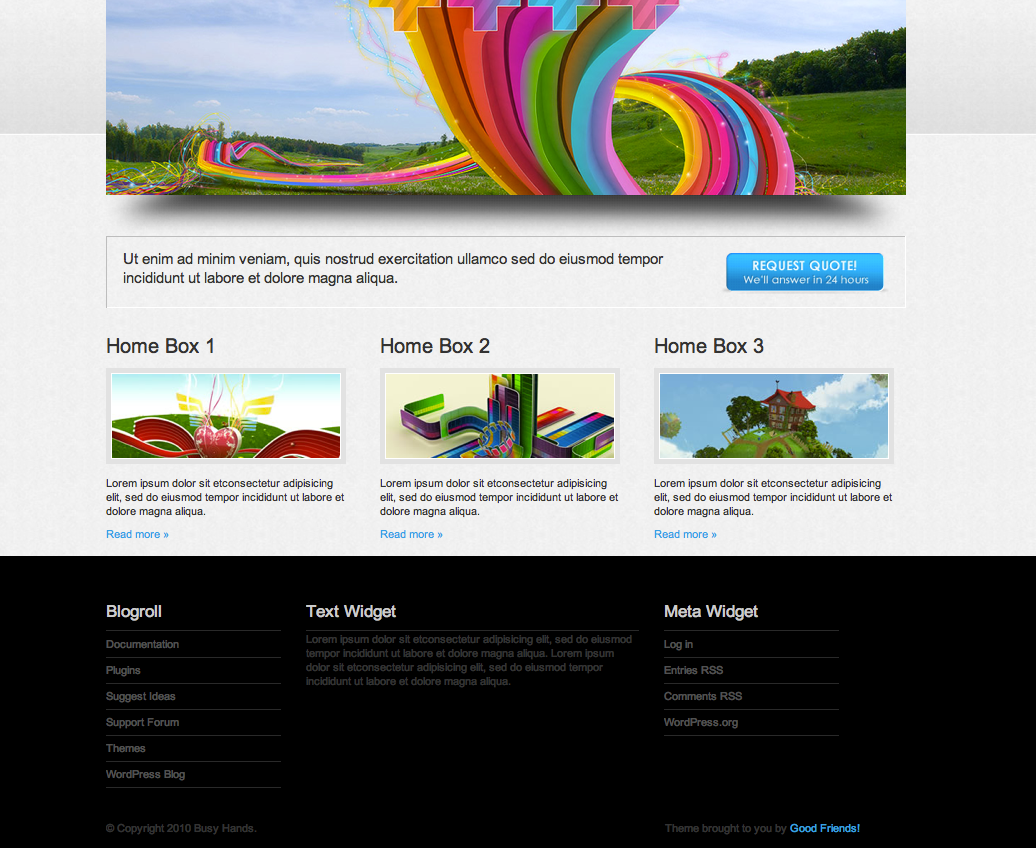
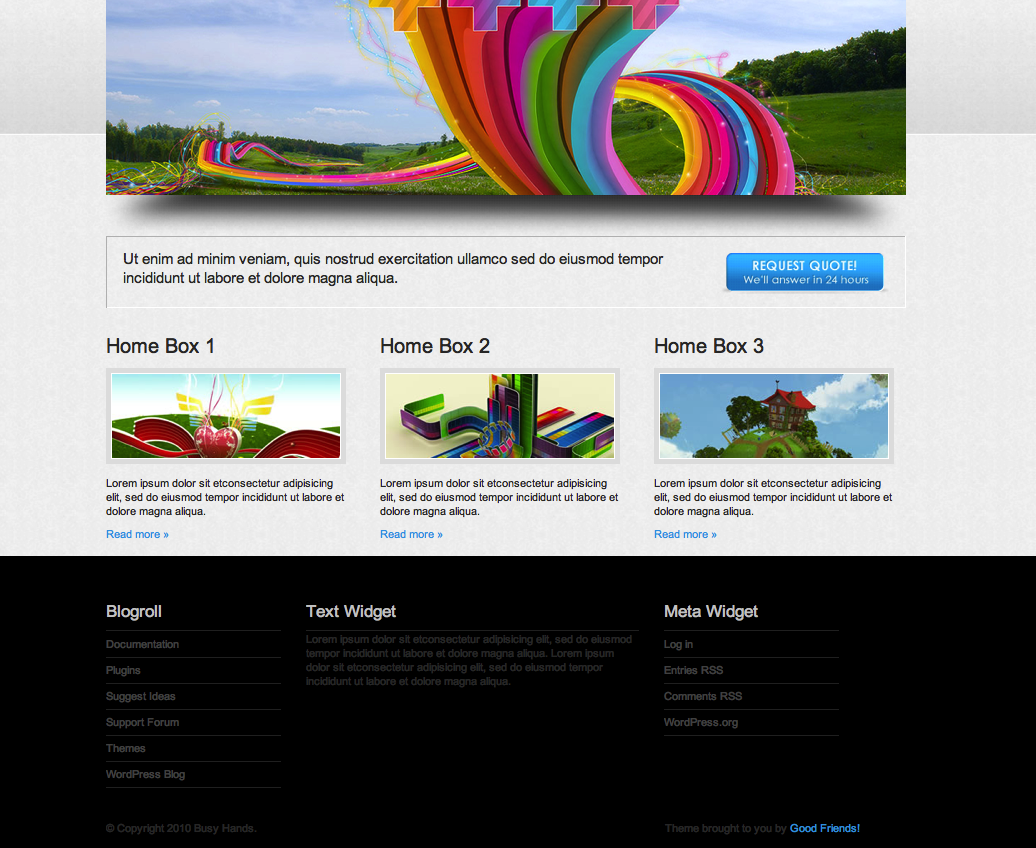
busyHands looking perfect !

diff --git a/lesson7/labs/busyHands/index.html b/lesson7/labs/busyHands/index.html
@@ -54,7 +54,7 @@
 
 		<div class="imageshadow">
 			<img src="images/shadow_slider.png" alt="shadow effect of the photo banner"></div>
-		<!-- shadow can be done in CSS, no? -->	
+		<!-- shadow can be done in CSS, no? -->
 
 		<div id="blurb">
 
@@ -64,19 +64,19 @@
 
 			<img src="images/button_blurb.png" alt="button"></div>
 
-		<div id="home-boxes">
+		<div id="home-boxes" class="clearfix">
 
 			<aside class="home-box">
 
-			<h3>Home Box 1</h3>
+				<h3>Home Box 1</h3>
 
-			<img src="images/photo_column1.jpg">	
+				<img src="images/photo_column1.jpg">
 
-			<p id="home-box-blurb">
-				Lorem ipsum dolor sit amet, consectetur adipisicing elit, sed do eiusmod tempor incididunt ut labore et dolore magna aliqua.
-			</p>
+				<p class="home-box-blurb">
+					Lorem ipsum dolor sit amet, consectetur adipisicing elit, sed do eiusmod tempor incididunt ut labore et dolore magna aliqua.
+				</p>
 
-			<a href="">Read More &gt;</a>
+				<a href="">Read More &gt;</a>
 
 			</aside>
 
@@ -84,9 +84,9 @@
 
 				<h3>Home Box 2</h3>
 
-				<img src="images/photo_column2.jpg">	
+				<img src="images/photo_column2.jpg">
 
-				<p id="home-box-blurb">
+				<p class="home-box-blurb">
 					Lorem ipsum dolor sit amet, consectetur adipisicing elit, sed do eiusmod tempor incididunt ut labore et dolore magna aliqua.
 				</p>
 
@@ -98,9 +98,9 @@
 
 				<h3>Home Box 3</h3>
 
-				<img src="images/photo_column3.jpg">	
+				<img src="images/photo_column3.jpg">
 
-				<p id="home-box-blurb">
+				<p class="home-box-blurb">
 					Lorem ipsum dolor sit amet, consectetur adipisicing elit, sed do eiusmod tempor incididunt ut labore et dolore magna aliqua.
 				</p>
 
@@ -109,13 +109,48 @@
 			</aside>
 
 		</div>
-		<!--home-boxes-->	
-
-		<div id="copyright"></div>
-
-		<div id="companybottom"></div>
-</div>
+		<!--home-boxes-->
+	</div>
 	<!--container-->
+
+		<footer class="clearfix">
+
+			<div id="bottom-container">
+
+			<div class="home-box">
+				<h4>Blogroll</h4>
+
+				<ul>
+					<li><a href="#">Documentation</a></li>
+					<li><a href="#">Plugins</a></li>
+					<li><a href="#">Suggest Ideas</a></li>
+					<li><a href="#">Support Forum</a></li>
+					<li><a href="#">Themes</a></li>
+					<li><a href="#">WordPress Blog</a></li>
+				</ul>
+			</div>
+
+			<div class="home-box">
+				<h4>Text Widget</h4>
+				<p>					Lorem ipsum dolor sit amet, consectetur adipisicing elit, sed do eiusmod tempor incididunt ut labore et dolore magna aliqua.
+</p>
+			</div>
+
+			<div class="home-box">
+				<h4>Meta Widget</h4>
+
+				<ul>
+					<li><a href="#">Log In</a></li>
+					<li><a href="#">Entries RSS</a></li>
+					<li><a href="#">Comments RSS</a></li>
+					<li><a href="#">WordPress.org</a></li>
+				</ul>
+			</div>
+
+		</div>
+
+		</footer>
+
 
 </body>
 </html>

diff --git a/lesson7/labs/busyHands/css/style.css b/lesson7/labs/busyHands/css/style.css
@@ -14,7 +14,7 @@ body {
 	height: 488px;
 }*/
 
-.clearfix {
+.clearfix:after {
    content: " "; /* Older browser do not support empty content */
    visibility: hidden;
    display: block;
@@ -32,6 +32,10 @@ h3 {
 	padding: 10px 0;
 }
 
+h4 {
+	font-size: 16px;
+	color: white;
+}
 /*** nav ***/
 
 nav {
@@ -120,7 +124,7 @@ li.social-media a {
 #blurb {
 	width: 950px;
 	height: 80px;
-	border: 1px solid black;
+	border: 1px inset white;
 }
 
 #blurbcontent {
@@ -139,26 +143,75 @@ li.social-media a {
 /** homebox **/
 .home-box {
 	width: 320px;
-	height: 400px;
 	float: left;
 }
 
 .home-box img {
-	border: 5px solid white;
+	border: 5px solid #DBDBDB;
 	margin: 10px 0;
 }
 
-div#home-box-blurb p {
-	margin-right: 10px;
-	color: green;
-} //why would not show?
-
-p#home-box-blurb {
-	margin-right: 10px;
-	color: green;
-}
+p.home-box-blurb {
+	margin-right: 30px;
+	padding: 10px 0;
+} 
 
 .home-box a {
 	text-decoration: none;
-} //does not show again?
+	color: #408DE1;
+	padding-bottom: 30px;
+}
+
+/** footer **/
+
+footer {
+	width: 100%;
+	background-color: black;
+}
+
+#bottom-container {
+	width: 960px;
+	margin: 0 auto;
+}
+
+.home-box h4 {
+padding: 50px 0px 20px 0px;
+border-bottom: 1px solid gray;
+margin-right: 30px;
+
+}
+
+.home-box p {
+	padding-top: 10px;
+	color: gray;
+}
+
+.home-box ul {
+	margin-left: -20px;
+	color: gray;
+}
+
+.home-box ul li {
+	float: none;
+	color: gray;
+	border-bottom: 1px solid gray;
+	line-height: 30px;
+}
+
+.home-box ul li a {
+	color: gray;
+}
+
+#bottom-container .home-box {
+	width: 220px;
+}
+
+#bottom-container .home-box:nth-child(2){
+	width: 420px;
+}
+
+.home-box ul {
+	margin-left: none;
+}
+
 
